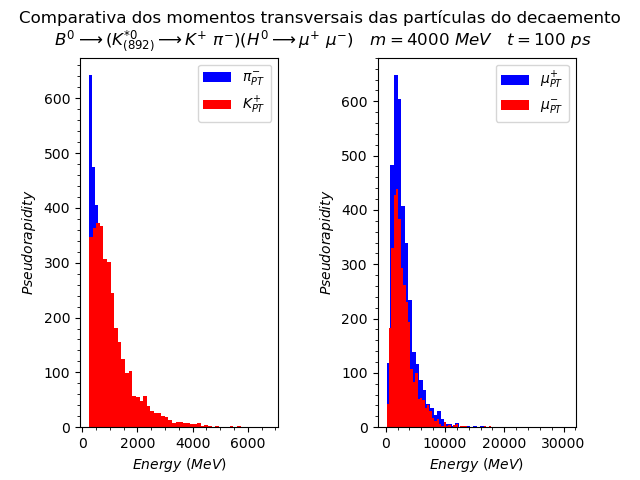
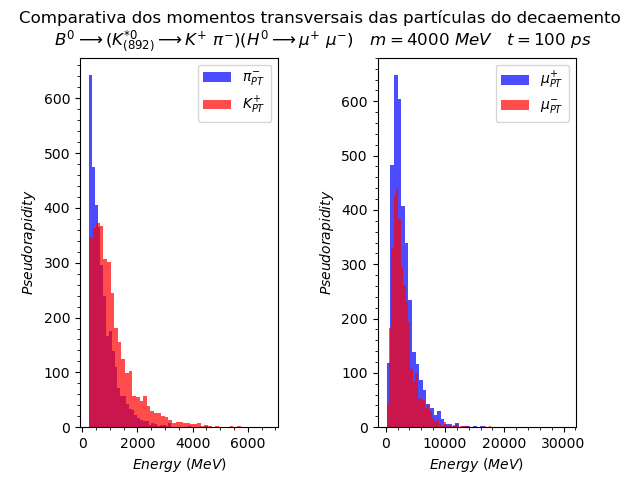
actualizado

diff --git a/first/first.py b/first/first.py
@@ -31,15 +31,15 @@ if __name__ == "__main__":
         plt.figure()
         plt.suptitle('Comparativa dos momentos transversais das partículas do decaemento\n $B^{0} \longrightarrow (K^{*0}_{(892)} \longrightarrow K^{+}~\pi^{-}) (H^{0} \longrightarrow \mu^{+}~\mu^{-}) \quad m=%d~MeV \quad t=%d~ps$' %(m[i],t[i]))
         ax1=plt.subplot(1,2,1)
-        ax1.hist(df['piminus_PT'], bins=50, color='blue', label='$\pi^{-}_{PT}$')
-        ax1.hist(df['Kplus_PT'], bins=50, color='red', label='$K^{+}_{PT}$')
+        ax1.hist(df['piminus_PT'], bins=50, color='blue', alpha=.7, label='$\pi^{-}_{PT}$')
+        ax1.hist(df['Kplus_PT'], bins=50, color='red', alpha=.7, label='$K^{+}_{PT}$')
         ax1.legend(loc='best')
         ax1.set_xlabel('$Energy~(MeV)$')
         ax1.set_ylabel('$Pseudorapidity$')
         ax1.minorticks_on()
         ax2=plt.subplot(1,2,2)
-        ax2.hist(df['muplus_PT'], bins=50, color='blue', label='$\mu^{+}_{PT}$')
-        ax2.hist(df['muminus_PT'], bins=50, color='red', label='$\mu^{-}_{PT}$')
+        ax2.hist(df['muplus_PT'], bins=50, color='blue', alpha=.7, label='$\mu^{+}_{PT}$')
+        ax2.hist(df['muminus_PT'], bins=50, color='red', alpha=.7, label='$\mu^{-}_{PT}$')
         ax2.legend(loc='best')
         ax2.set_xlabel('$Energy~(MeV)$')
         ax2.set_ylabel('$Pseudorapidity$')
@@ -53,14 +53,14 @@ for i,j in enumerate(path_Bplus):
         plt.figure()
         plt.suptitle('Comparativa dos momentos transversais das partículas do decaemento\n$B^{+}~\longrightarrow~K^{+}~(H^{0}~\longrightarrow~\mu^{+}~ \mu{-}) \quad m=%d~MeV \quad t=%d~ps$' %(m[i],t[i]))
         ax1=plt.subplot(1,2,1)
-        ax1.hist(df['Kplus_PT'], bins=50, color='blue', label='$K^{+}_{PT}$')
+        ax1.hist(df['Kplus_PT'], bins=50, color='blue', alpha=.7, label='$K^{+}_{PT}$')
         ax1.legend(loc='best')
         ax1.set_xlabel('$Energy~(MeV)$')
         ax1.set_ylabel('$Pseudorapidity$')
         ax1.minorticks_on()
         ax2=plt.subplot(1,2,2)
-        ax2.hist(df['muplus_PT'], bins=50, color='blue', label='$\mu^{+}_{PT}$')
-        ax2.hist(df['muminus_PT'], bins=50, color='red', label='$\mu^{-}_{PT}$')
+        ax2.hist(df['muplus_PT'], bins=50, color='blue', alpha=.7, label='$\mu^{+}_{PT}$')
+        ax2.hist(df['muminus_PT'], bins=50, color='red', alpha=.7, label='$\mu^{-}_{PT}$')
         ax2.legend(loc='best')
         ax2.set_xlabel('$Energy~(MeV)$')
         ax2.set_ylabel('$Pseudorapidity$')
